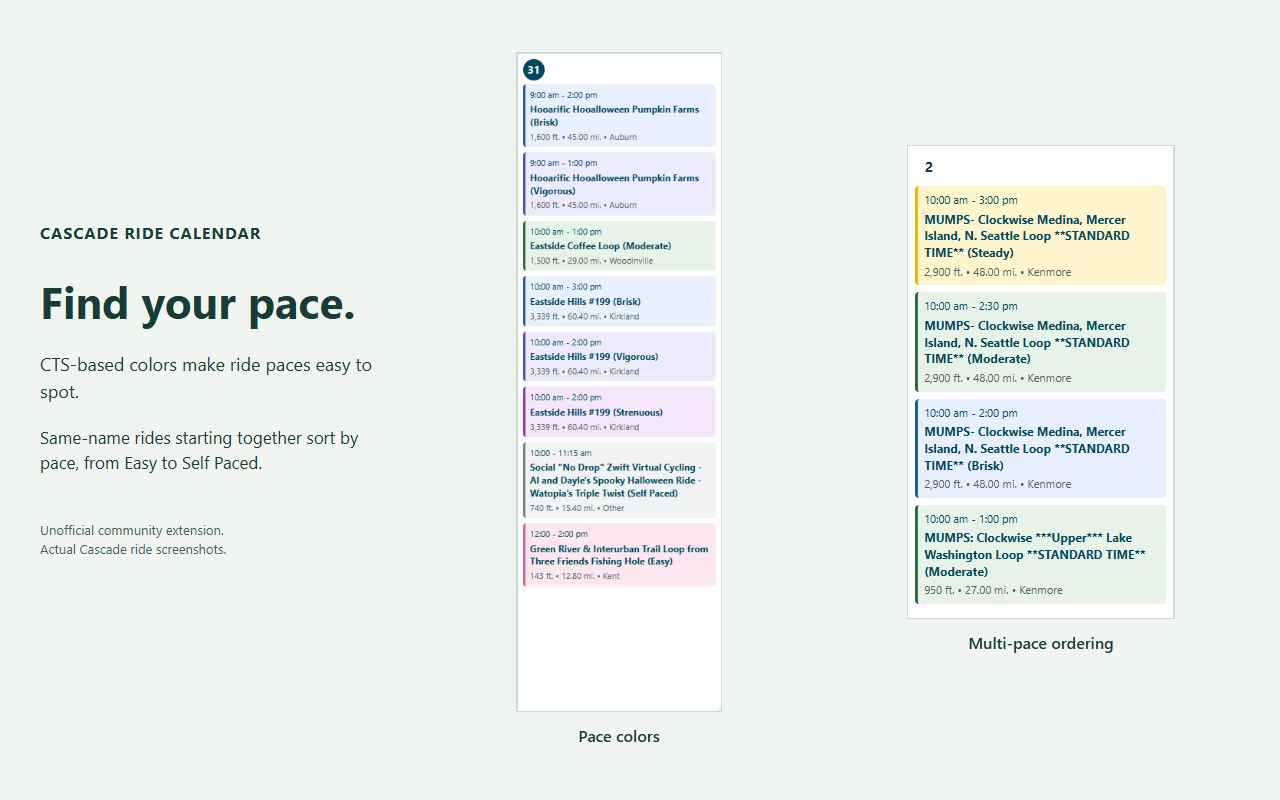
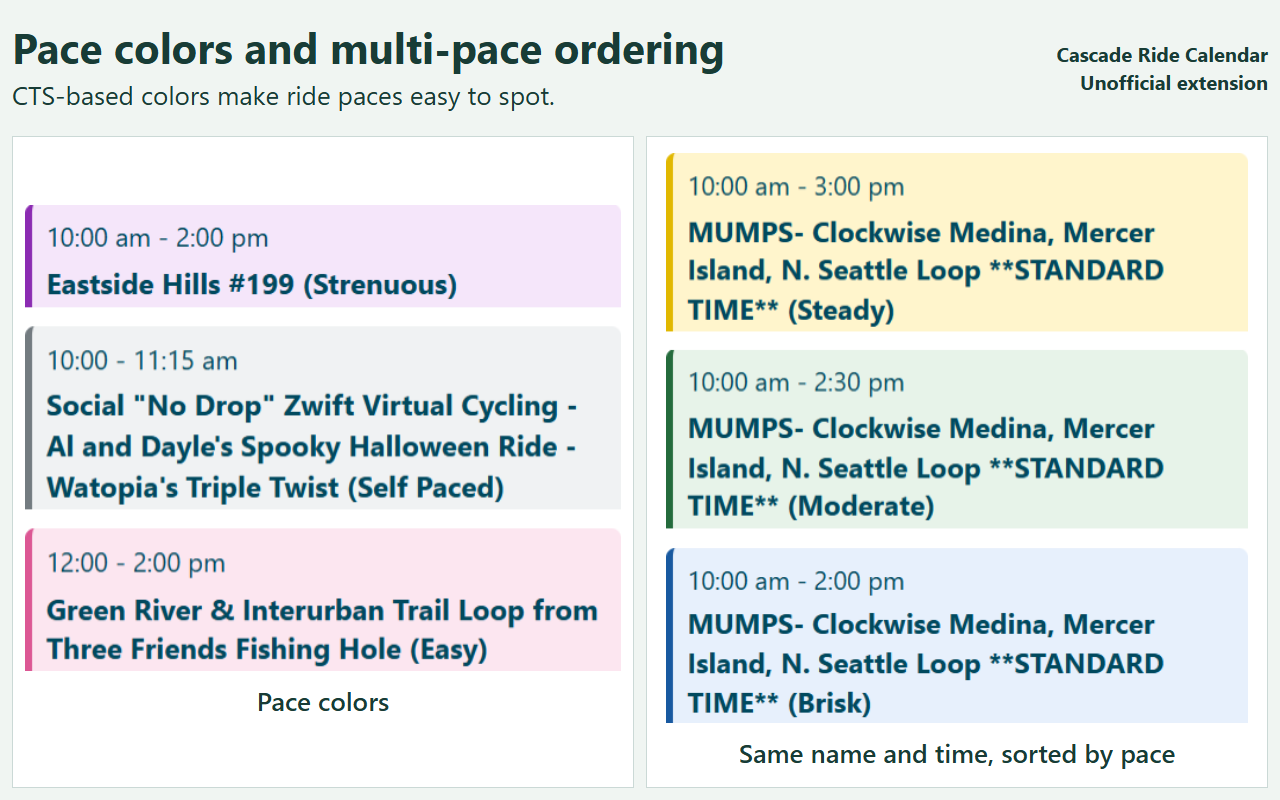
Make store screenshots readable at 640 by 400 with larger focused crops

diff --git a/scripts/generate-store-images.js b/scripts/generate-store-images.js
@@ -10,38 +10,33 @@ const image = (file, alt, directory = "docs") => {
 const slides = [
   {
     file: "01-full-month.png",
-    title: "A whole month.<br>One calendar.",
+    title: "A full month of rides",
     copy: "See all free group rides, including every results page.",
-    detail: "Navigate by month, jump to a date, or return to the original list.",
-    images: image("calendar.png", "Full month of Cascade rides"),
+    images: `<div class="wide">${image("calendar.png", "Cascade month calendar and ride details")}</div>`,
   },
   {
     file: "02-pace-colors-and-order.png",
-    title: "Find your pace.",
+    title: "Pace colors and multi-pace ordering",
     copy: "CTS-based colors make ride paces easy to spot.",
-    detail: "Same-name rides starting together sort by pace, from Easy to Self Paced.",
-    images: `<div class="pair"><figure>${image("pace-colors.png", "Pace-colored ride cards")}<figcaption>Pace colors</figcaption></figure><figure>${image("pace-order.png", "Multi-pace rides sorted by pace")}<figcaption>Multi-pace ordering</figcaption></figure></div>`,
+    images: `<div class="pair"><figure>${image("store-pace-colors.png", "Strenuous, Self Paced, and Easy colors", "assets")}<figcaption>Pace colors</figcaption></figure><figure>${image("store-pace-order.png", "Same-name rides ordered Steady, Moderate, then Brisk", "assets")}<figcaption>Same name and time, sorted by pace</figcaption></figure></div>`,
   },
   {
     file: "03-cancelled-rides.png",
-    title: "Know before<br>you go.",
-    copy: "Cancelled rides are clearly marked.",
-    detail: "The name is crossed out. Time, details, and the original ride link remain available.",
+    title: "Cancelled rides are clearly marked",
+    copy: "Crossed-out names. Original ride details preserved.",
     images: `<div class="cancellation">${image("cancelled-ride.png", "A cancelled ride with its name crossed out", "assets")}</div>`,
   },
   {
     file: "04-pace-filter.png",
-    title: "Your pace.<br>Your rides.",
+    title: "Filter rides by your pace",
     copy: "Keep Cascade's familiar sidebar filters.",
-    detail: "Filter by pace, date, terrain, location, or search while staying in calendar view.",
-    images: `<div class="filter">${image("pace-filter.png", "Moderate pace selected in Cascade's sidebar")}</div>`,
+    images: `<div class="filter-pair"><div class="filter-sidebar">${image("pace-filter.png", "Moderate pace selected in the sidebar")}</div><div class="filter-calendar">${image("pace-filter.png", "Only Moderate rides in the calendar")}</div></div>`,
   },
   {
     file: "05-dark-reader.png",
-    title: "Easy on<br>the eyes.",
-    copy: "Works with the Dark Reader extension.",
-    detail: "Readable text, tinted ride cards, and native date controls adapt to the page's dark theme.",
-    images: image("dark-reader.png", "Cascade calendar with Dark Reader enabled"),
+    title: "Works with Dark Reader",
+    copy: "Automatic dark colors with readable rides and controls.",
+    images: `<div class="wide">${image("dark-reader.png", "Cascade calendar with Dark Reader enabled")}</div>`,
     dark: true,
   },
 ];
@@ -52,21 +47,23 @@ const slides = [
     const page = await browser.newPage({ viewport: { width: 1280, height: 800 }, deviceScaleFactor: 1 });
     for (const slide of slides) {
       await page.setContent(`<!doctype html><html><head><style>
-        *{box-sizing:border-box}body{margin:0;font:18px/1.5 system-ui,sans-serif;color:#183c36;background:${slide.dark ? "#18221e" : "#f0f5f2"}}
-        main{width:1280px;height:800px;display:grid;grid-template-columns:350px 1fr;gap:30px;padding:40px}
-        .copy{display:flex;flex-direction:column;justify-content:center;color:${slide.dark ? "#e0ece7" : "#183c36"}}
-        .brand{font-size:16px;font-weight:700;letter-spacing:1px;margin-bottom:32px}
-        h1{font-size:44px;line-height:1.12;margin:0 0 24px}p{margin:0 0 20px}.detail{font-size:17px}
-        .note{font-size:13px;margin-top:24px;opacity:.8}.shot{display:flex;align-items:center;justify-content:center;min-width:0;height:720px}
-        .shot>img{display:block;max-width:100%;max-height:100%;border:1px solid ${slide.dark ? "#435953" : "#cbd9d6"}}
-        .pair{display:grid;grid-template-columns:1fr 1fr;gap:24px;width:100%;height:100%;align-items:center}
-        figure{margin:0;display:flex;flex-direction:column;align-items:center;gap:12px}figure img{max-width:100%;max-height:660px;object-fit:contain;border:1px solid #cbd9d6}
-        figcaption{font-size:16px;font-weight:600}.cancellation{width:100%}.cancellation img{display:block;width:100%;border:1px solid #cbd9d6}
-        .filter{width:100%;height:650px;overflow:hidden;border:1px solid #cbd9d6}.filter img{display:block;width:100%}
-      </style></head><body><main><section class="copy">
-        <div class="brand">CASCADE RIDE CALENDAR</div><h1>${slide.title}</h1><p>${slide.copy}</p><p class="detail">${slide.detail}</p>
-        <p class="note">Unofficial community extension.<br>Actual Cascade ride screenshots.</p>
-        </section><section class="shot">${slide.images}</section></main></body></html>`);
+        *{box-sizing:border-box}body{margin:0;font:20px/1.4 system-ui,sans-serif;color:#183c36;background:${slide.dark ? "#18221e" : "#f0f5f2"}}
+        main{width:1280px;height:800px;display:grid;grid-template-rows:112px 1fr;gap:12px;padding:12px}
+        header{display:flex;align-items:center;justify-content:space-between;gap:20px;color:${slide.dark ? "#e0ece7" : "#183c36"}}
+        h1{font-size:42px;line-height:1.15;margin:0 0 6px}p{margin:0;font-size:26px}.brand{font-size:20px;font-weight:700;text-align:right;flex-shrink:0}
+        .shot{min-width:0;min-height:0;overflow:hidden}.wide{position:relative;width:100%;height:100%;overflow:hidden}
+        .wide img{position:absolute;left:-688px;top:0;width:3200px;max-width:none}
+        .pair{display:grid;grid-template-columns:1fr 1fr;gap:12px;height:100%}
+        figure{margin:0;display:flex;flex-direction:column;align-items:center;justify-content:center;gap:12px;background:white;padding:12px;border:1px solid #cbd9d6}
+        figure img{width:100%;max-height:570px;object-fit:contain}figcaption{font-size:26px;font-weight:600}
+        .cancellation{display:flex;align-items:center;width:100%;height:100%;background:white}.cancellation img{display:block;width:100%}
+        .filter-pair{display:grid;grid-template-columns:480px 1fr;gap:12px;height:100%}
+        .filter-sidebar,.filter-calendar{position:relative;overflow:hidden;background:white;border:1px solid #cbd9d6}
+        .filter-sidebar img{position:absolute;width:2560px;left:-32px;top:-900px;max-width:none}
+        .filter-calendar img{position:absolute;width:3200px;left:-688px;top:-334px;max-width:none}
+      </style></head><body><main><header><div><h1>${slide.title}</h1><p>${slide.copy}</p></div>
+        <div class="brand">Cascade Ride Calendar<br>Unofficial extension</div></header>
+        <section class="shot">${slide.images}</section></main></body></html>`);
       await page.evaluate(async () => {
         await Promise.all([...document.images].map((node) => node.decode()));
         await document.fonts.ready;

diff --git a/store/listing.md b/store/listing.md
@@ -73,8 +73,9 @@ Cancellation markers and multi-pace groups depend on currently published rides. 
 - Screenshots: the five PNG files in this folder, each 1280 x 800 pixels.
 - The source calendar-and-bike artwork is `assets\icon.svg`.
 - The high-resolution cancellation capture is `assets\cancelled-ride.png`; other screenshot sources are in `docs`.
+- Close-up ride-name and time captures are `assets\store-pace-colors.png` and `assets\store-pace-order.png`.
 
-Screenshots use actual calendar captures presented in store-sized layouts. No fabricated ride data is used.
+Screenshots use focused crops of actual calendar captures, designed to remain readable when the store displays them at 640 x 400. Upload the 1280 x 800 originals for sharpness. No fabricated ride data is used.
 
 ## Final submission checklist
 
